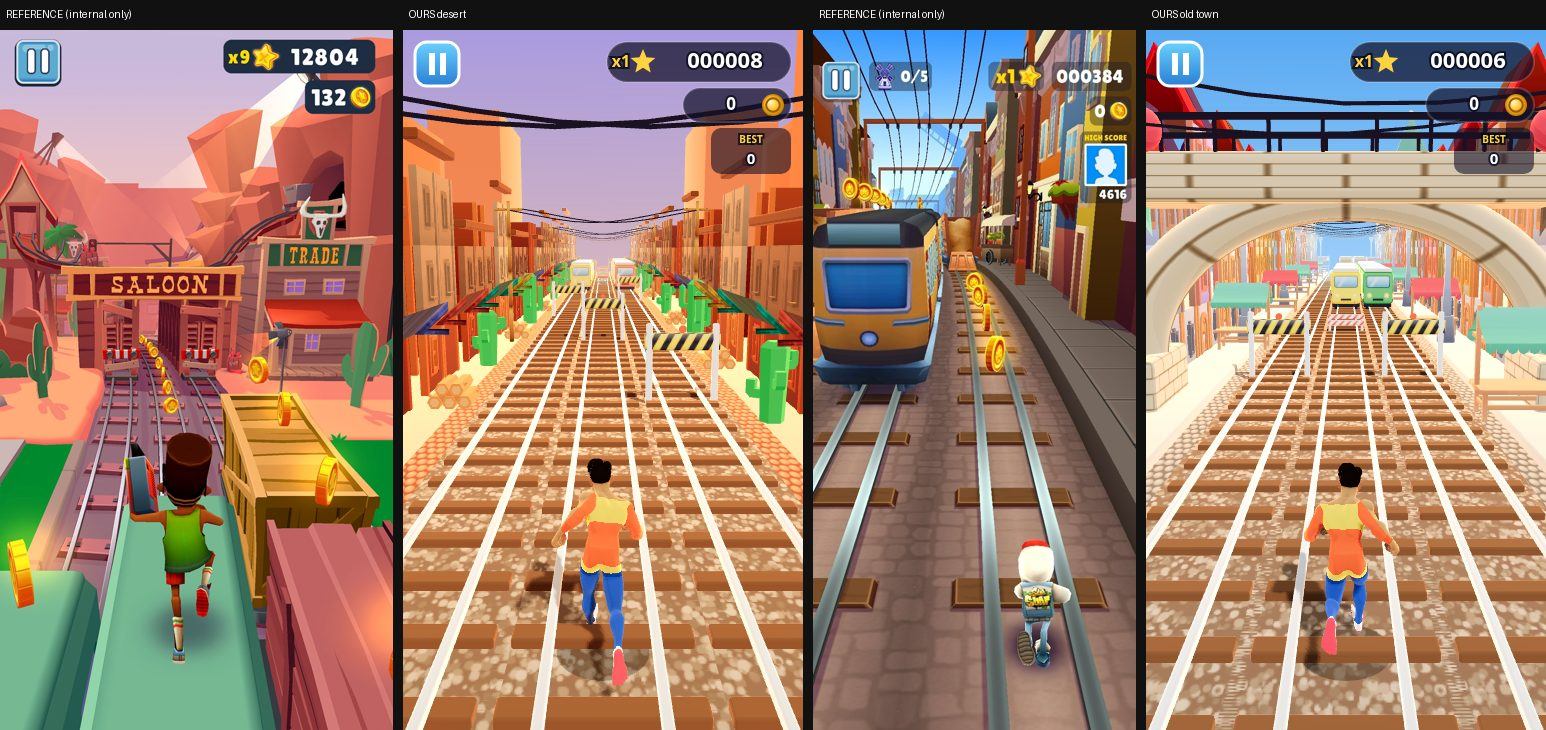
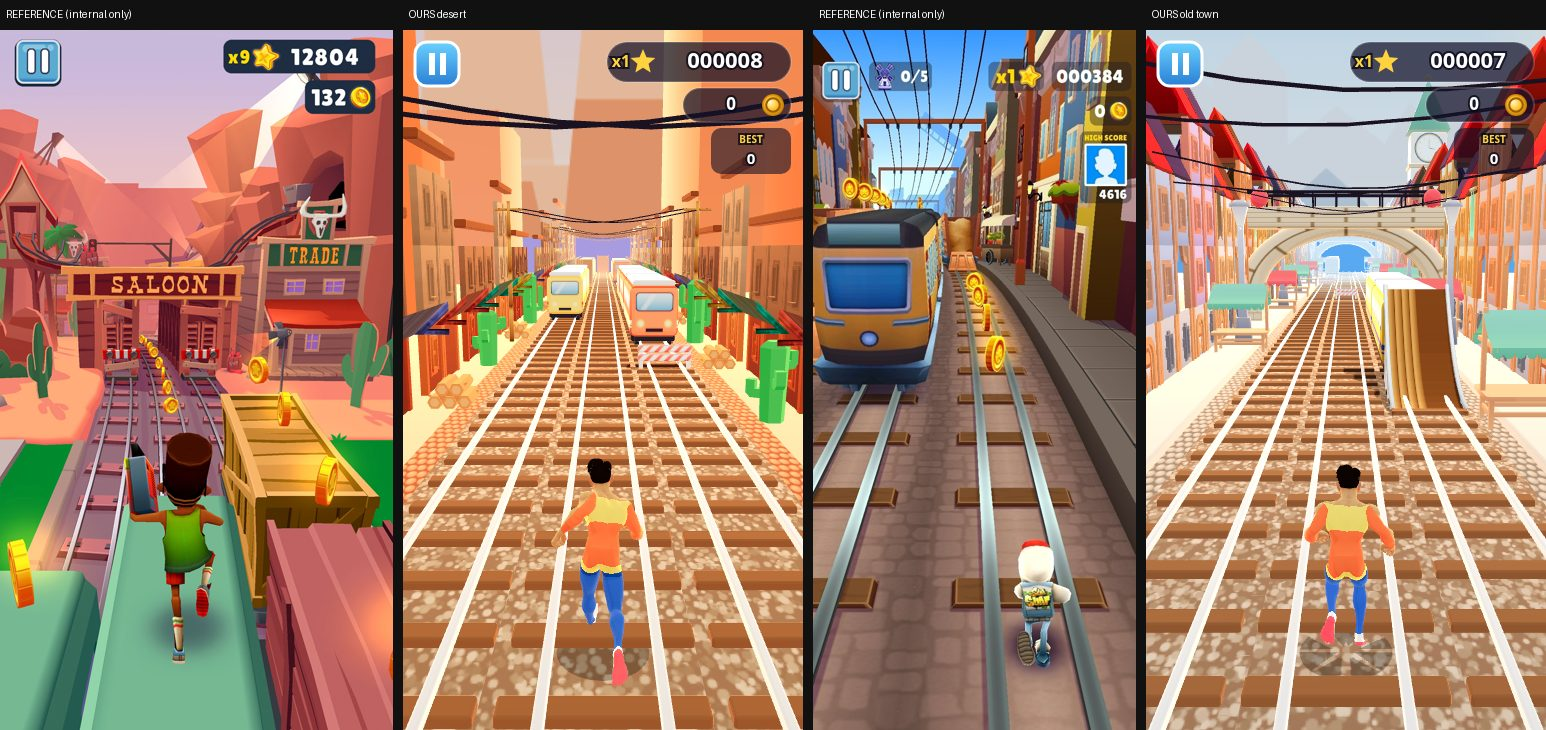
games-lib: Rail Rush v4 passes audit (set pieces, curved ramps, painted backdrop, closer trains, stumble tuning, vertex-colour bake; 3D e2e waits for load)

diff --git a/public/games-lib/runner3x.js b/public/games-lib/runner3x.js
@@ -37,10 +37,13 @@ export function outfit(root, o) { let big = null; root.traverse(m => { if (m.isS
         diffuseColor.rgb = col;`); };
     m.material = mat; }); if (o.hair) root.traverse(m => { if (m.isMesh && /Hair|Brow/i.test(m.material.name)) { m.material = m.material.clone(); m.material.color.set(o.hair); } }); return root; }
 export function toonify(obj, tint) { const tc = new THREE.Color(tint || '#ffffff'); obj.traverse(o => { if (!o.isMesh) return; const src = o.material; const key = src.uuid + '|' + tc.getHexString(); if (!MC.has(key)) MC.set(key, toonMat({ map: src.map || null, color: (src.color ? src.color.clone() : new THREE.Color(1, 1, 1)).multiply(tc), vertexColors: !!src.vertexColors })); o.material = MC.get(key); o.material.name = src.name; }); return obj; }
+const BM = new Map();
 export function bake(group, shadows) { group.updateMatrixWorld(true); const by = new Map(); group.traverse(o => { if (!o.isMesh) return; let g = o.geometry.clone(); if (g.index) g = g.toNonIndexed();
-    for (const k of Object.keys(g.attributes)) { if (!['position', 'normal', 'uv'].includes(k)) { g.deleteAttribute(k); continue; } const a = g.attributes[k], f = new Float32Array(a.count * a.itemSize); for (let i = 0; i < a.count; i++) for (let j = 0; j < a.itemSize; j++) f[i * a.itemSize + j] = a.getComponent(i, j); g.setAttribute(k, new THREE.BufferAttribute(f, a.itemSize)); }
-    if (!g.attributes.uv) g.setAttribute('uv', new THREE.BufferAttribute(new Float32Array(g.attributes.position.count * 2), 2)); if (!g.attributes.normal) g.computeVertexNormals(); g.applyMatrix4(o.matrixWorld);
-    const key = o.material.uuid; if (!by.has(key)) by.set(key, { m: o.material, gs: [] }); by.get(key).gs.push(g); });
+    for (const k of Object.keys(g.attributes)) { if (!['position', 'normal', 'uv', 'color'].includes(k)) { g.deleteAttribute(k); continue; } const a = g.attributes[k], f = new Float32Array(a.count * a.itemSize); for (let i = 0; i < a.count; i++) for (let j = 0; j < a.itemSize; j++) f[i * a.itemSize + j] = a.getComponent(i, j); g.setAttribute(k, new THREE.BufferAttribute(f, a.itemSize)); }
+    if (!g.attributes.uv) g.setAttribute('uv', new THREE.BufferAttribute(new Float32Array(g.attributes.position.count * 2), 2)); if (!g.attributes.normal) g.computeVertexNormals(); g.applyMatrix4(o.matrixWorld); g.computeBoundingBox(); const ck = Math.floor(-(g.boundingBox.min.z + g.boundingBox.max.z) / 2 / 32);
+    const mt = o.material; const merge = mt.isMeshToonMaterial && !mt.userData.keep; const col = mt.color || new THREE.Color(1, 1, 1); const n = g.attributes.position.count; const ca = new Float32Array(n * 3); const vc = g.attributes.color;
+    for (let i = 0; i < n; i++) { const r = vc && mt.vertexColors ? vc.getX(i) : 1, gg = vc && mt.vertexColors ? vc.getY(i) : 1, b = vc && mt.vertexColors ? vc.getZ(i) : 1; ca[i * 3] = col.r * r; ca[i * 3 + 1] = col.g * gg; ca[i * 3 + 2] = col.b * b; } g.setAttribute('color', new THREE.BufferAttribute(ca, 3));
+    const mk = merge ? 'toon|' + (mt.map ? mt.map.uuid : 'none') : mt.uuid; const key = mk + '#' + ck; if (!by.has(key)) by.set(key, { m: merge ? (BM.get(mk) || BM.set(mk, toonMat({ map: mt.map || null, vertexColors: true })).get(mk)) : mt, gs: [] }); by.get(key).gs.push(g); });
   const out = new THREE.Group(); for (const { m, gs } of by.values()) { const me = new THREE.Mesh(mergeGeometries(gs), m); me.receiveShadow = true; me.castShadow = !!shadows; out.add(me); } return out; }
 function bakeMulti(group) { const subs = []; group.traverse(o => { if (o.isMesh && Array.isArray(o.material)) subs.push(o); }); for (const o of subs) { let g = o.geometry.index ? o.geometry.toNonIndexed() : o.geometry; for (const gr of o.geometry.groups) { const sg = new THREE.BufferGeometry(); for (const k in g.attributes) { const a = g.attributes[k]; sg.setAttribute(k, new THREE.BufferAttribute(a.array.slice(gr.start * a.itemSize, (gr.start + gr.count) * a.itemSize), a.itemSize)); } const m = new THREE.Mesh(sg, o.material[gr.materialIndex]); m.position.copy(o.position); m.rotation.copy(o.rotation); m.scale.copy(o.scale); o.parent.add(m); } o.parent.remove(o); } return bake(group, true); }
 function canvasTex(w, h, draw, rep) { const c = document.createElement('canvas'); c.width = w; c.height = h; draw(c.getContext('2d'), w, h); const t = new THREE.CanvasTexture(c); t.colorSpace = THREE.SRGBColorSpace; t.anisotropy = 4; if (rep) { t.wrapS = t.wrapT = THREE.RepeatWrapping; t.repeat.set(rep[0], rep[1]); } return t; }
@@ -55,8 +58,8 @@ export function stage(o) {
   r.shadowMap.enabled = true; r.shadowMap.type = THREE.PCFShadowMap; r.toneMapping = THREE.ACESFilmicToneMapping; r.toneMappingExposure = 1.1; r.outputColorSpace = THREE.SRGBColorSpace;
   const scene = new THREE.Scene(); const pm = new THREE.PMREMGenerator(r); const env = pm.fromScene(new RoomEnvironment(), 0.04).texture;
   const hemi = new THREE.HemisphereLight('#fff', '#888', 1.6); scene.add(hemi);
-  const sun = new THREE.DirectionalLight('#fff', 2.6); sun.castShadow = true; sun.shadow.mapSize.set(1024, 1024); const sc = sun.shadow.camera; sc.left = -12; sc.right = 12; sc.top = 22; sc.bottom = -14; sc.near = 1; sc.far = 70; sun.shadow.bias = -0.0005; sun.shadow.normalBias = 0.04; scene.add(sun, sun.target);
-  const cam = new THREE.PerspectiveCamera(58, 1, 0.1, 400); window.__R = r;
+  const sun = new THREE.DirectionalLight('#fff', 2.6); sun.castShadow = true; sun.shadow.mapSize.set(1024, 1024); const sc = sun.shadow.camera; sc.left = -12; sc.right = 12; sc.top = 16; sc.bottom = -10; sc.near = 1; sc.far = 70; sun.shadow.bias = -0.0005; sun.shadow.normalBias = 0.04; scene.add(sun, sun.target);
+  const cam = new THREE.PerspectiveCamera(58, 1, 0.1, 130); window.__R = r; window.__TRI = () => { const o = {}; scene.traverse(m => { if (m.isMesh && m.visible) { let n = m.name || m.parent?.name || m.geometry.type; const t = (m.geometry.index ? m.geometry.index.count : m.geometry.attributes.position.count) / 3 * (m.isInstancedMesh ? m.count : 1); const k = m.geometry.type + (m.isSkinnedMesh ? '-skin' : ''); o[k] = (o[k] || 0) + Math.round(t); } }); return o; };
   function sync() { const k = document.getElementById('gl'); if (!k) return; if (cv.style.cssText !== k.style.cssText) { cv.style.cssText = k.style.cssText; cv.style.pointerEvents = 'none'; } const w = parseInt(k.style.width), h = parseInt(k.style.height); if (w && (cam.aspect !== w / h || r.domElement.width !== Math.floor(w * r.getPixelRatio()))) { r.setSize(w, h, false); cam.aspect = w / h; cam.updateProjectionMatrix(); } }
   function skyTex(top, bot) { return canvasTex(2, 256, (x) => { const g = x.createLinearGradient(0, 0, 0, 256); g.addColorStop(0, top); g.addColorStop(0.7, bot); g.addColorStop(1, bot); x.fillStyle = g; x.fillRect(0, 0, 2, 256); }); }
   return { r, scene, sun, hemi, cam, env, sync, skyTex, render() { sync(); r.render(scene, cam); } };
@@ -64,9 +67,9 @@ export function stage(o) {
 
 // ---- world themes (original names/signs; no references to any commercial game) ----
 const THEMES = {
-  desert: { name: 'Dustwater Junction', sky: ['#a99be0', '#ffcf9e'], fog: '#f4b896', fogNear: 45, fogFar: 150, hemi: ['#ffe6cc', '#c0644a', 1.7], sun: ['#fff1d8', 2.7], ground: ['#b9694a', '#d98d68', '#8e4a33'], side: '#e9a77c',
+  desert: { name: 'Dustwater Junction', sky: ['#a99be0', '#ffcf9e'], fog: '#f4b896', fogNear: 40, fogFar: 125, hemi: ['#ffe6cc', '#c0644a', 1.7], sun: ['#fff1d8', 2.7], ground: ['#b9694a', '#d98d68', '#8e4a33'], side: '#e9a77c',
     trains: [['tr-train-diesel-b', '#ffb347'], ['tr-train-carriage-container-blue', '#5fd3c6'], ['tr-train-carriage-tank-large', '#ff7a59']], signs: ['GENERAL STORE', 'HOTEL', 'GOLD & GRAIN', 'BARBER', 'POST', 'CANTINA'] },
-  old: { name: 'Lindenhof Old Town', sky: ['#58a9f2', '#e6f4ff'], fog: '#cfe7f8', fogNear: 45, fogFar: 150, hemi: ['#eef7ff', '#8f7c6a', 1.6], sun: ['#fff6e6', 2.5], ground: ['#8f8073', '#b8a899', '#6c6057'], side: '#a49384',
+  old: { name: 'Lindenhof Old Town', sky: ['#58a9f2', '#e6f4ff'], fog: '#cfe7f8', fogNear: 40, fogFar: 125, hemi: ['#eef7ff', '#8f7c6a', 1.6], sun: ['#fff6e6', 2.5], ground: ['#8f8073', '#b8a899', '#6c6057'], side: '#a49384',
     trains: [['tr-train-tram-classic', '#ffcc33'], ['tr-train-electric-city-b', '#ff8a5c']], signs: ['BAKERY', 'CAFE', 'BOOKS', 'FLOWERS', 'CHEESE', 'MUSEUM'] } };
 const ORDER = ['desert', 'old'];
 const MODELS = ['hero', 'chaser2', 'rail', 'pu-magnet', 'pu-jump', 'pu-double', 'tr-train-diesel-b', 'tr-train-carriage-container-blue', 'tr-train-carriage-tank-large', 'tr-train-tram-classic', 'tr-train-electric-city-b',
@@ -77,17 +80,20 @@ export default async function RailRunner(cfg) {
   const K = window.Kit; const S = stage(cfg); const { scene, cam, sun, hemi } = S; let M = null; await loadModels(MODELS).then(m => (M = m));
   const place = (n, s, tint) => { const o = toonify(M[n].scene.clone(), tint); o.scale.setScalar(s); return center(o); };
   // ---- shared props built in code (bevelled, readable) ----
-  const MAT = { post: toonMat({ color: '#e8e8f0' }), stripeR: toonMat({ map: stripes('#ff4d4d', '#ffffff') }), stripeY: toonMat({ map: stripes('#ffd23f', '#2b2b3a') }), wood: toonMat({ map: planks('#d9984f') }), steel: new THREE.MeshStandardMaterial({ color: '#c9d2dc', metalness: 0.9, roughness: 0.3, envMap: S.env }), wire: new THREE.MeshBasicMaterial({ color: '#2a2230' }), steelT: toonMat({ color: '#d6dde6' }) };
+  const MAT = { post: toonMat({ color: '#e8e8f0' }), stripeR: toonMat({ map: stripes('#ff4d4d', '#ffffff') }), stripeY: toonMat({ map: stripes('#ffd23f', '#2b2b3a') }), wood: toonMat({ map: planks('#d9984f') }), steel: new THREE.MeshStandardMaterial({ color: '#c9d2dc', metalness: 0.9, roughness: 0.3, envMap: S.env }), wire: new THREE.MeshBasicMaterial({ color: '#2a2230' }), steelT: toonMat({ color: '#d6dde6' }), rampSide: toonMat({ color: '#c9d2dc' }) };
   function lowBarrier() { const g = new THREE.Group(); for (const s of [-1, 1]) { const p = new THREE.Mesh(new RoundedBoxGeometry(0.16, 1.05, 0.16, 3, 0.05), MAT.post); p.position.set(s * 0.92, 0.52, 0); g.add(p); } for (const y of [0.55, 0.9]) { const b = new THREE.Mesh(new RoundedBoxGeometry(2.1, 0.3, 0.12, 3, 0.05), MAT.stripeR); b.position.set(0, y, 0.06); g.add(b); } g.traverse(o => o.isMesh && (o.castShadow = true)); return g; }
   function highBarrier() { const g = new THREE.Group(); for (const s of [-1, 1]) { const p = new THREE.Mesh(new RoundedBoxGeometry(0.2, 2.5, 0.2, 3, 0.06), MAT.post); p.position.set(s * 1.0, 1.25, 0); g.add(p); } const b = new THREE.Mesh(new RoundedBoxGeometry(2.3, 0.55, 0.16, 3, 0.07), MAT.stripeY); b.position.set(0, 1.95, 0); g.add(b); const lamp = new THREE.Mesh(new THREE.SphereGeometry(0.12, 12, 8), new THREE.MeshBasicMaterial({ color: '#ff5a3c' })); lamp.position.set(0, 2.32, 0); g.add(lamp); g.traverse(o => o.isMesh && (o.castShadow = true)); return g; }
-  function ramp(h) { const L = 4.6, g = new THREE.Group(); const d = new THREE.Mesh(new RoundedBoxGeometry(2.0, 0.22, Math.hypot(L, h), 3, 0.06), MAT.wood); d.rotation.x = Math.atan2(h, L); d.position.set(0, h / 2, 0); d.castShadow = d.receiveShadow = true; g.add(d); for (const s of [-1, 1]) { const rl = new THREE.Mesh(new RoundedBoxGeometry(0.1, 0.12, Math.hypot(L, h), 2, 0.04), MAT.stripeR); rl.rotation.x = d.rotation.x; rl.position.set(s * 1.0, h / 2 + 0.2, 0); g.add(rl); } return g; }
+  function ramp(h) { const L = 4.6, g = new THREE.Group(); const sh = new THREE.Shape(); const N = 14; sh.moveTo(-L / 2, 0); for (let i = 0; i <= N; i++) { const u = i / N; sh.lineTo(-L / 2 + u * L, h * u * u); } sh.lineTo(L / 2, 0); sh.lineTo(-L / 2, 0);
+    const geo = new THREE.ExtrudeGeometry(sh, { depth: 2.0, bevelEnabled: true, bevelSize: 0.06, bevelThickness: 0.06, bevelSegments: 2, curveSegments: 4 }); geo.translate(0, 0, -1.0); geo.rotateY(Math.PI / 2); const d = new THREE.Mesh(geo, [MAT.rampSide, MAT.wood]); d.castShadow = d.receiveShadow = true; g.add(d);
+    for (const sx of [-1.05, 1.05]) { const pts = []; for (let i = 0; i <= N; i++) { const u = i / N; pts.push(new THREE.Vector3(sx, h * u * u + 0.22, L / 2 - u * L)); } const rl = new THREE.Mesh(new THREE.TubeGeometry(new THREE.CatmullRomCurve3(pts), 20, 0.07, 8), MAT.steel); rl.castShadow = true; g.add(rl); for (let i = 3; i <= N; i += 4) { const u = i / N; const p = new THREE.Mesh(new THREE.CylinderGeometry(0.05, 0.05, h * u * u + 0.22, 6), MAT.steel); p.position.set(sx, (h * u * u + 0.22) / 2, L / 2 - u * L); g.add(p); } }
+    return g; }
   // coins: one instanced glossy lathe coin + instanced rim (2 draw calls for every coin on screen)
   const pts = []; const R0 = 0.42, T0 = 0.07; pts.push(new THREE.Vector2(0, -T0), new THREE.Vector2(R0 - 0.04, -T0), new THREE.Vector2(R0, -T0 + 0.03), new THREE.Vector2(R0, T0 - 0.03), new THREE.Vector2(R0 - 0.04, T0), new THREE.Vector2(0.3, T0), new THREE.Vector2(0.28, T0 - 0.03), new THREE.Vector2(0, T0 - 0.03));
-  const coinGeo = new THREE.LatheGeometry(pts, 28); coinGeo.rotateX(Math.PI / 2); const coinMat = new THREE.MeshStandardMaterial({ color: '#ffc531', metalness: 1, roughness: 0.22, envMap: S.env, envMapIntensity: 1.6, emissive: '#7a4a00', emissiveIntensity: 0.35 });
+  const coinGeo = new THREE.LatheGeometry(pts, 20); coinGeo.rotateX(Math.PI / 2); const coinMat = new THREE.MeshStandardMaterial({ color: '#ffc531', metalness: 1, roughness: 0.22, envMap: S.env, envMapIntensity: 1.6, emissive: '#7a4a00', emissiveIntensity: 0.35 });
   const MAXC = 160; const coins = new THREE.InstancedMesh(coinGeo, coinMat, MAXC); coins.castShadow = false; coins.count = 0; scene.add(coins);
   const spk = new THREE.Points(new THREE.BufferGeometry().setAttribute('position', new THREE.BufferAttribute(new Float32Array(24 * 3), 3)), new THREE.PointsMaterial({ size: 0.5, map: canvasTex(64, 64, (x) => { const g = x.createRadialGradient(32, 32, 0, 32, 32, 32); g.addColorStop(0, '#fff'); g.addColorStop(0.2, 'rgba(255,240,180,.9)'); g.addColorStop(1, 'rgba(255,220,120,0)'); x.fillStyle = g; x.fillRect(0, 0, 64, 64); x.fillStyle = '#fff'; x.fillRect(30, 0, 4, 64); x.fillRect(0, 30, 64, 4); }), transparent: true, depthWrite: false, blending: THREE.AdditiveBlending })); scene.add(spk);
   // ---- hero + chaser ----
-  const ch = SkeletonUtils.clone(M.hero.scene); toonify(ch, '#ffffff'); outfit(ch, { top: '#ff5a36', top2: '#ffd23f', pants: '#2f5fd0', shoes: '#ffffff', sole: '#ff3b5c', hair: '#3a2416' }); ch.scale.setScalar(1.3); ch.traverse(b => { if (b.isBone && b.name === 'Head') b.userData.big = 1.28; if (b.isBone && /^hand_/.test(b.name)) b.userData.big = 1.2; if (b.isBone && /^foot_/.test(b.name)) b.userData.big = 1.15; }); const hero = new THREE.Group(); hero.add(ch); scene.add(hero); ch.traverse(o => { if (o.isMesh) o.frustumCulled = false; });
+  const ch = SkeletonUtils.clone(M.hero.scene); toonify(ch, '#ffffff'); outfit(ch, { top: '#ff5a36', top2: '#ffd23f', pants: '#2f5fd0', shoes: '#ffffff', sole: '#ff3b5c', hair: '#3a2416' }); ch.scale.setScalar(1.3); ch.traverse(b => { if (b.isBone && b.name === 'Head') b.userData.big = 1.28; if (b.isBone && /^hand_/.test(b.name)) b.userData.big = 1.2; if (b.isBone && /^foot_/.test(b.name)) b.userData.big = 1.15; }); const hero = new THREE.Group(); hero.add(ch); scene.add(hero); ch.traverse(o => { if (o.isMesh) { o.frustumCulled = false; o.castShadow = false; } });
   const mixer = new THREE.AnimationMixer(ch); const acts = {}; const AN = { sprint: 'Sprint_Loop', jump: 'Jump_Loop', crouch: 'Roll', die: 'Death01', idle: 'Idle_Loop' }; for (const k in AN) { const c = M.hero.animations.find(a => a.name === AN[k]); if (c) acts[k] = mixer.clipAction(c); } let cur = null;
   const blob = new THREE.Mesh(new THREE.CircleGeometry(0.55, 24), new THREE.MeshBasicMaterial({ color: '#000', transparent: true, opacity: 0.28, depthWrite: false })); blob.rotation.x = -Math.PI / 2; scene.add(blob);
   const cc = SkeletonUtils.clone(M.chaser2.scene); toonify(cc, '#ffffff'); outfit(cc, { top: '#26375f', top2: '#f2c14e', pants: '#1c2440', shoes: '#111111', sole: '#444', hair: '#c0502a' }); cc.scale.setScalar(1.35); cc.traverse(b => { if (b.isBone && b.name === 'Head') b.userData.big = 1.25; }); cc.traverse(o => { if (o.isMesh) o.castShadow = false; }); const chaser = new THREE.Group(); chaser.add(cc); chaser.rotation.y = Math.PI; scene.add(chaser); const cmixer = new THREE.AnimationMixer(cc); const csp = M.chaser2.animations.find(a => a.name === 'Sprint_Loop'); if (csp) cmixer.clipAction(csp).play();
@@ -124,13 +130,13 @@ export default async function RailRunner(cfg) {
     b.position.z = z; g.add(b); }
   function desertRow(g, k, th) { const X = LANE * 1.5 + 2.2; const woods = ['#e0a46a', '#c98652', '#f0b77a', '#b8774d']; const awn = ['#ff6b5b', '#38c6b8', '#ffcf4a', '#7f8cff'];
     for (const s of [-1, 1]) { let z = -2 - k * 3; let i = k * 3 + (s > 0 ? 1 : 0); while (z > -ROW + 6) { const w = 2 + (i % 2); const floors = 2 + ((i * 7 + k) % 2); const tint = woods[i % woods.length]; const x = s * X;
-        for (let c = 0; c < w; c++) for (let f = 0; f < floors; f++) { const n = f === 0 ? (c === 1 ? 'ot-wall-wood' : 'ot-wall-wood-window-glass') : 'ot-wall-wood-window-small'; const p = place(n, U, tint); p.position.set(x, f * U, z - c * U - U / 2); p.rotation.y = s > 0 ? Math.PI : 0; g.add(p); const bk = place('ot-wall-wood', U, tint); bk.position.set(x + s * U, f * U, z - c * U - U / 2); bk.rotation.y = Math.PI / 2; bk.scale.x = 1; g.add(bk); }
+        for (let c = 0; c < w; c++) for (let f = 0; f < floors; f++) { const n = f === 0 ? (c === 1 ? 'ot-wall-wood' : 'ot-wall-wood-window-glass') : 'ot-wall-wood-window-small'; const p = place(n, U, tint); p.position.set(x, f * U, z - c * U - U / 2); p.rotation.y = s > 0 ? Math.PI : 0; g.add(p); }
         const cap = new THREE.Mesh(new RoundedBoxGeometry(0.5, 0.35, w * U + 0.3, 2, 0.08), toonMat({ color: '#7a4526' })); cap.position.set(x, floors * U + 0.9, z - w * U / 2); g.add(cap);
         const sign = signBoard(th.signs[i % th.signs.length], w * U * 0.85, [['#7a2e1f', '#4a170e'], '#ffd76a']); sign.scale.y = 1.5; sign.position.set(x - s * 0.12, floors * U + 0.05, z - w * U / 2); sign.rotation.y = s > 0 ? -Math.PI / 2 : Math.PI / 2; g.add(sign);
         const aw = place('ru-detail-awning-wide', 1, awn[i % awn.length]); aw.scale.set(U * w * 0.9, U * 1.4, U * 1.4); aw.position.set(x - s * 0.9, U * 0.95, z - w * U / 2); aw.rotation.y = s > 0 ? -Math.PI / 2 : Math.PI / 2; g.add(aw);
         if (i % 2 === 0) { const cac = place(i % 4 ? 'ds-cactus_tall' : 'ds-cactus_short', 4.2, '#5fbf5a'); cac.position.set(s * (X - 1.1), 0, z - w * U - 0.9); g.add(cac); } else { const lg = place('ds-log_stackLarge', 2.2, '#e0a070'); lg.position.set(s * (X - 1.2), 0, z - w * U - 0.8); g.add(lg); }
         z -= w * U + 1.8; i++; }
-      if (k === 0 && s < 0) saloon(g, s * (X - 0.2), -48, s); if (k === 1 && s > 0) { const big = place('ds-cliff_large_rock', 46, '#e8835c'); big.position.set(s * (X + 16), 0, -46); big.rotation.y = -Math.PI / 2; g.add(big); }
+      if ((k === 0) === (s < 0)) saloon(g, s * (X - 0.2), -30, s); if ((k === 1) === (s < 0)) { const big = place('ds-cliff_large_rock', 46, '#e8835c'); big.position.set(s * (X + 14), 0, -40); big.rotation.y = -Math.PI / 2; g.add(big); }
       for (let j = 0; j < 4; j++) { const cl = place('ds-cliff_large_rock', 14 + (j % 3) * 4, '#e07a55'); cl.position.set(s * (X + 12 + (j % 2) * 6), 0, -j * 22 - k * 9); cl.rotation.y = s > 0 ? -Math.PI / 2 : Math.PI / 2; g.add(cl); }
       for (let j = 0; j < 3; j++) { const p = new THREE.Mesh(new THREE.CylinderGeometry(0.09, 0.12, 7, 8), MAT.wood); p.position.set(s * (LANE * 1.5 + 1.1), 3.5, -j * 26 - 6); g.add(p); const bar = new THREE.Mesh(new RoundedBoxGeometry(1.4, 0.12, 0.12, 2, 0.04), MAT.wood); bar.position.set(s * (LANE * 1.5 + 1.1), 6.6, -j * 26 - 6); g.add(bar); if (s < 0) for (const d of [-0.5, 0.5]) wires(g, -j * 26 - 6, -(LANE * 1.5 + 1.1) + d, LANE * 1.5 + 1.1 + d, 6.65, 6.65, 0.7); } } }
   function oldRow(g, k, th) { const X = LANE * 1.5 + 2.6; const pastel = ['#ffd2b8', '#ffe9a8', '#c9ecd0', '#ffc2c2', '#c7dcff', '#f0cfff', '#fff3e6']; const roofs = ['#d9583f', '#3f6fd9', '#e07b39', '#5a7d4a'];
@@ -143,7 +149,7 @@ export default async function RailRunner(cfg) {
         if (i % 2) { const bn = place('ot-banner-green', U * 1.2, i % 4 === 1 ? '#ff6b6b' : '#ffffff'); bn.position.set(x - s * 0.3, U * 2.1, z - 0.3); bn.rotation.y = s > 0 ? Math.PI : 0; g.add(bn); }
         z -= w * U + 0.2; i++; }
       for (let j = 0; j < 4; j++) { const ln = place('ot-lantern', 4.2, '#ffffff'); ln.position.set(s * (LANE * 1.5 + 1.2), 0.3, -j * 20 - 8 - k * 4); g.add(ln); } }
-    if (k === 0) clockTower(g, X + 3.5, -44); else bridge(g, -40, X);
+    clockTower(g, (k ? -1 : 1) * (X + 3.5), -24); bridge(g, -64, X);
     for (let j = 0; j < 6; j++) { const z = -j * 13 - 4; wires(g, z, -(X - 0.1), X - 0.1, U * 3.2, U * 3.0, 0.9); wires(g, z - 2, -(X - 0.1), X - 0.1, U * 2.9, U * 3.1, 0.7); } }
   // trains: chunky bevelled cars built in code with painted liveries (original designs)
   function livery(body, stripe, win, num) { return canvasTex(512, 256, (x, w, h) => { const g = x.createLinearGradient(0, 0, 0, h); g.addColorStop(0, body[0]); g.addColorStop(1, body[1]); x.fillStyle = g; x.fillRect(0, 0, w, h); x.fillStyle = stripe; x.fillRect(0, h * 0.68, w, h * 0.09); x.fillRect(0, h * 0.8, w, h * 0.03);
@@ -155,7 +161,7 @@ export default async function RailRunner(cfg) {
   const trainProto = {}; for (const key of ORDER) trainProto[key] = LIV[key].map(([b, st, num]) => { const CL = 9.5, H = 3.0, W = 2.3; const side = toonMat({ map: livery(b, st, ['#bfe9ff', '#5aa0d8'], num) }), plain = toonMat({ color: b[1] }), front = toonMat({ map: cabTex(b[0], ['#bfe9ff', '#5aa0d8']) });
       const car = new THREE.Group(); const body = new THREE.Mesh(new RoundedBoxGeometry(W, H - 0.6, CL, 4, 0.32), [side, side, plain, plain, front, front]); body.position.y = 0.6 + (H - 0.6) / 2; car.add(body); const roof = new THREE.Mesh(new RoundedBoxGeometry(W - 0.3, 0.3, CL - 0.6, 3, 0.12), toonMat({ color: '#d9dde6' })); roof.position.y = H + 0.1; car.add(roof);
       const skirt = new THREE.Mesh(new RoundedBoxGeometry(W - 0.2, 0.35, CL - 1.2, 2, 0.1), darkM); skirt.position.y = 0.5; car.add(skirt); for (const z of [-CL / 2 + 1.6, CL / 2 - 1.6]) for (const x of [-0.75, 0.75]) for (const dz of [-0.5, 0.5]) { const w = new THREE.Mesh(wheelG, darkM); w.position.set(x, 0.42, z + dz); car.add(w); }
-      return { car: bakeMulti(car), len: CL, h: H + 0.25 }; });
+      const bk = bakeMulti(car); bk.traverse(o => { if (o.isMesh) o.castShadow = o.material === side; }); return { car: bk, len: CL, h: H + 0.25 }; });
   function makeTrain(key, g, moving) { const set = trainProto[key]; const grp = new THREE.Group(); const p = set[g.RI(0, set.length - 1)]; const n = 2 + (g.rnd() < 0.5 ? 1 : 0); for (let i = 0; i < n; i++) { const c = p.car.clone(); c.position.z = -i * (p.len + 0.4) - p.len / 2; grp.add(c); } const L = n * (p.len + 0.4) - 0.4; grp.children.forEach(c => c.position.z += L / 2); return { o: grp, len: L, h: p.h }; }
   const PU = { magnet: { label: 'MAGNET', c: '#ff6fb5', m: 'pu-magnet' }, jump: { label: 'SUPER JUMP', c: '#3ee08f', m: 'pu-jump' }, double: { label: '2X SCORE', c: '#ffd23f', m: 'pu-double' } };
   for (const k in PU) { const o = toonify(fit(M[PU[k].m].scene.clone(), 'y', 0.9), '#ffffff'); const ring = new THREE.Mesh(new THREE.TorusGeometry(0.72, 0.07, 10, 40), new THREE.MeshBasicMaterial({ color: PU[k].c })); ring.position.y = 0.45; o.add(ring); PU[k].proto = o; }
@@ -165,12 +171,20 @@ export default async function RailRunner(cfg) {
     else if (kind === 'low') o = lowBarrier(); else if (kind === 'high') o = highBarrier(); else if (kind === 'ramp') o = ramp(extra.h); else if (PU[kind]) o = PU[kind].proto.clone();
     if (o) { o.position.set(lane * LANE, extra.y || 0, z); world.add(o); } const it = Object.assign({ kind, lane, z, o, y: extra.y || 0, len, h }, extra); items.push(it); return it; }
   let gref = null;
-  function pattern(g, z) { const lv = Math.min(1, g.t / 120); const lanes = [-1, 0, 1].sort(() => g.rnd() - 0.5); const free = lanes[0]; const r = g.rnd();
-    if (r < 0.4) { const n = g.rnd() < 0.5 + lv * 0.3 ? 2 : 1; let TL = 0; for (let i = 1; i <= n; i++) { const L = lanes[i]; const moving = g.rnd() < 0.12 + lv * 0.3 && i === 1; const t = mk('train', L, 0, { moving }); t.z = z - t.len / 2; TL = Math.max(TL, t.len); const rampOn = !moving && g.rnd() < 0.5; if (rampOn) mk('ramp', L, z + 2.3, { h: t.h }); if (rampOn || g.rnd() < 0.5) for (let k = 0; k < 7; k++) mk('coin', L, z - 1.5 - k * 2, { y: (rampOn ? t.h : 0) + 0.7 }); }
-      for (let k = 0; k < 6; k++) mk('coin', free, z - k * 2.2, { y: 0.7 }); if (g.rnd() < 0.22) mk(g.pick(Object.keys(PU)), free, z - 15, { y: 0.5, pu: true }); return TL + 10; }
-    if (r < 0.72) { const kinds = ['low', 'high']; for (const L of [lanes[1], lanes[2]]) if (g.rnd() < 0.75) mk(g.pick(kinds), L, z, {}); const kk = g.pick(kinds); mk(kk, free, z - 14, {}); for (let i = 0; i < 5; i++) mk('coin', free, z + 4 - i * 2, { y: kk === 'low' && i >= 3 ? 2.0 : 0.7 }); return 26 - lv * 6; }
+  function pattern(g, z) { const lv = Math.min(1, g.t / 150); const lanes = [-1, 0, 1].sort(() => g.rnd() - 0.5); const free = lanes[0]; const r = g.rnd();
+    if (r < 0.58) { const n = g.rnd() < 0.5 + lv * 0.3 ? 2 : 1; let TL = 0; for (let i = 1; i <= n; i++) { const L = lanes[i]; const moving = g.rnd() < 0.12 + lv * 0.3 && i === 1; const t = mk('train', L, 0, { moving }); t.z = z - t.len / 2; TL = Math.max(TL, t.len); const rampOn = !moving && g.rnd() < 0.5; if (rampOn) mk('ramp', L, z + 2.3, { h: t.h }); if (rampOn || g.rnd() < 0.5) for (let k = 0; k < 7; k++) mk('coin', L, z - 1.5 - k * 2, { y: (rampOn ? t.h : 0) + 0.7 }); }
+      for (let k = 0; k < 6; k++) mk('coin', free, z - k * 2.2, { y: 0.7 }); if (g.rnd() < 0.22) mk(g.pick(Object.keys(PU)), free, z - 15, { y: 0.5, pu: true }); return TL + 6 + (1 - lv) * 8; }
+    if (r < 0.84) { const kinds = ['low', 'high']; for (const L of [lanes[1], lanes[2]]) if (g.rnd() < 0.75) mk(g.pick(kinds), L, z, {}); const kk = g.pick(kinds); mk(kk, free, z - 14, {}); for (let i = 0; i < 5; i++) mk('coin', free, z + 4 - i * 2, { y: kk === 'low' && i >= 3 ? 2.0 : 0.7 }); return 32 - lv * 8; }
     const L = lanes[1]; for (let i = 0; i < 8; i++) mk('coin', L, z - i * 1.6, { y: 0.7 + Math.sin(i / 7 * Math.PI) * 1.9 }); mk('low', L, z - 5.6, {}); return 22 - lv * 5; }
-  function setTheme(key) { theme = key; const th = THEMES[key]; for (const k of ORDER) for (const r of T[k].rows) r.visible = k === key; scene.background = T[key].sky; scene.fog = new THREE.Fog(th.fog, th.fogNear, th.fogFar); hemi.color.set(th.hemi[0]); hemi.groundColor.set(th.hemi[1]); hemi.intensity = th.hemi[2]; sun.color.set(th.sun[0]); sun.intensity = th.sun[1]; }
+  let setTheme = function (key) { theme = key; const th = THEMES[key]; for (const k of ORDER) for (const r of T[k].rows) r.visible = k === key; scene.background = T[key].sky; scene.fog = new THREE.Fog(th.fog, th.fogNear, th.fogFar); hemi.color.set(th.hemi[0]); hemi.groundColor.set(th.hemi[1]); hemi.intensity = th.hemi[2]; sun.color.set(th.sun[0]); sun.intensity = th.sun[1]; };
+  function backdrop(key) { return canvasTex(1024, 512, (x, w, h) => { const th = THEMES[key]; const g = x.createLinearGradient(0, 0, 0, h); g.addColorStop(0, th.sky[0]); g.addColorStop(0.75, th.sky[1]); g.addColorStop(1, th.fog); x.fillStyle = g; x.fillRect(0, 0, w, h);
+      const sun = x.createRadialGradient(w * 0.7, h * 0.35, 5, w * 0.7, h * 0.35, 120); sun.addColorStop(0, 'rgba(255,250,220,.9)'); sun.addColorStop(1, 'rgba(255,240,200,0)'); x.fillStyle = sun; x.fillRect(0, 0, w, h);
+      for (let i = 0; i < 6; i++) { x.fillStyle = 'rgba(255,255,255,.55)'; const cx = (i * 197) % w, cy = 60 + (i * 53) % 120; for (let j = 0; j < 5; j++) { x.beginPath(); x.ellipse(cx + j * 26, cy + Math.sin(j) * 8, 34, 18, 0, 0, 7); x.fill(); } }
+      const layers = key === 'desert' ? [['#e8a07e', 0.55, 90], ['#d47a5a', 0.66, 70], ['#b85e48', 0.78, 50]] : [['#b8cde0', 0.58, 60], ['#93acc6', 0.7, 45], ['#7590ad', 0.8, 35]];
+      layers.forEach(([c, base, amp], li) => { x.fillStyle = c; x.beginPath(); x.moveTo(0, h); let px = 0; while (px <= w) { if (key === 'desert') { const wd = 60 + ((px * 7 + li * 31) % 90); const top = h * base - amp * (0.4 + ((px * 13 + li * 7) % 100) / 100); x.lineTo(px, h * base); x.lineTo(px + 10, top); x.lineTo(px + wd - 10, top); x.lineTo(px + wd, h * base); px += wd + ((px * 3) % 40); }
+          else { const wd = 26 + ((px * 7 + li * 13) % 40); const top = h * base - amp * (0.5 + ((px * 11 + li * 5) % 100) / 100); x.lineTo(px, top + 10); x.lineTo(px + wd / 2, top - (li < 2 && (px % 7 < 2) ? 50 : 14)); x.lineTo(px + wd, top + 10); px += wd; } } x.lineTo(w, h); x.fill(); x.fillStyle = 'rgba(255,255,255,.08)'; x.fillRect(0, h * base - 4, w, 4); }); }); }
+  const BD = {}; for (const k of ORDER) BD[k] = backdrop(k); const bdM = new THREE.MeshBasicMaterial({ map: BD.desert, fog: false, depthWrite: false }); const bdMesh = new THREE.Mesh(new THREE.PlaneGeometry(300, 150), bdM); bdMesh.renderOrder = -1; scene.add(bdMesh);
+  const _st = setTheme; setTheme = (k) => { _st(k); bdM.map = BD[k]; bdM.needsUpdate = true; scene.background = new THREE.Color(THEMES[k].sky[0]); };
   setTheme('desert');
   const pl = { lane: 0, x: 0, y: 0, vy: 0, roll: 0, stumble: 0, ground: 0, immune: 0 };
   window.__RR = { items, pl, get g() { return window.__GL && __GL.g; } };
@@ -184,14 +198,14 @@ export default async function RailRunner(cfg) {
       mixer.update(g.state === 'play' ? dt : dt * 0.3); cmixer.update(g.state === 'play' ? dt * 1.15 : 0); for (const b of BIG) b.scale.setScalar(b.userData.big); if (g.state !== 'play') return;
       if (g.ptr.pressed && g.ptr.x < 64 && g.ptr.y < 64) { g.paused = true; return; }
       for (const k in g.pu) g.pu[k] = Math.max(0, g.pu[k] - dt); g.mult = (1 + Math.min(4, Math.floor(g.coins / 50))) * (g.pu.double > 0 ? 2 : 1);
-      g.sp = Math.min(34, (cfg.speed || 15) + g.t * 0.12); g.z -= g.sp * dt; const m = Math.floor(-g.z / 2); if (m > g.lastM) { g.add((m - g.lastM) * g.mult, 'm'); g.lastM = m; }
+      g.sp = Math.min(34, (cfg.speed || 15) + g.t * 0.09); g.z -= g.sp * dt; const m = Math.floor(-g.z / 2); if (m > g.lastM) { g.add((m - g.lastM) * g.mult, 'm'); g.lastM = m; }
       if (g.lastM >= g.themeAt) { g.themeAt += 1000; g.ti++; setTheme(ORDER[g.ti % ORDER.length]); g.flash('#fff', 0.35); g.float(g.W / 2, g.H * 0.3, THEMES[theme].name.toUpperCase(), '#fff', 22); g.mark('t', g.ti); }
       const P = g.ptr; let sw = null; if (P.released && !(P.sx < 64 && P.sy < 64)) { const dx = P.x - P.sx, dy = P.y - P.sy; if (Math.abs(dx) > 25 && Math.abs(dx) > Math.abs(dy)) sw = dx > 0 ? 'r' : 'l'; else if (Math.abs(dy) > 25) sw = dy < 0 ? 'u' : 'd'; else sw = 'u'; }
       if (g.kd('ArrowLeft') || g.kd('a')) sw = 'l'; if (g.kd('ArrowRight') || g.kd('d')) sw = 'r'; if (g.kd('ArrowUp') || g.kd('w') || g.kd(' ')) sw = 'u'; if (g.kd('ArrowDown') || g.kd('s')) sw = 'd';
       if (sw === 'l' && pl.lane > -1) { pl.lane--; g.sfx('whoosh'); } if (sw === 'r' && pl.lane < 1) { pl.lane++; g.sfx('whoosh'); }
       const grounded = pl.y <= pl.ground + 0.001; if (sw === 'u' && grounded) { pl.vy = JUMP * (g.pu.jump > 0 ? 1.35 : 1); pl.roll = 0; g.sfx('jump'); play('jump', 0.08); } if (sw === 'd') { if (!grounded) pl.vy = -26; pl.roll = 0.65; play('crouch', 0.08); g.sfx('whoosh'); }
       const prevX = pl.x; pl.x = K.lerp(pl.x, pl.lane * LANE, Math.min(1, dt * 14)); pl.roll = Math.max(0, pl.roll - dt); pl.stumble = Math.max(0, pl.stumble - dt); pl.immune = Math.max(0, pl.immune - dt);
-      let gh = 0; for (const it of items) { const iz = it.z - g.z; if (it.kind === 'train' && Math.abs(it.lane * LANE - pl.x) < 1.1 && iz - it.len / 2 < 0.4 && iz + it.len / 2 > -0.4 && pl.y >= it.h - 0.35) gh = Math.max(gh, it.h); if (it.kind === 'ramp' && Math.abs(it.lane * LANE - pl.x) < 1 && iz < 2.3 && iz > -2.3) gh = Math.max(gh, it.h * (2.3 - iz) / 4.6); }
+      let gh = 0; for (const it of items) { const iz = it.z - g.z; if (it.kind === 'train' && Math.abs(it.lane * LANE - pl.x) < 1.1 && iz - it.len / 2 < 0.4 && iz + it.len / 2 > -0.4 && pl.y >= it.h - 0.35) gh = Math.max(gh, it.h); if (it.kind === 'ramp' && Math.abs(it.lane * LANE - pl.x) < 1 && iz < 2.3 && iz > -2.3) { const u = (2.3 - iz) / 4.6; gh = Math.max(gh, it.h * u * u); } }
       pl.ground = gh; pl.vy -= GRAV * dt; pl.y += pl.vy * dt; if (pl.y < gh) { if (pl.vy < -8) g.land = 0.16; pl.y = gh; pl.vy = 0; if (cur === acts.jump) play(pl.roll > 0 ? 'crouch' : 'sprint', 0.1); }
       if (grounded && pl.roll <= 0 && cur !== acts.sprint && cur !== acts.jump) play('sprint');
       for (const it of items) { if (it.dead) continue; if (it.moving) it.z += 10 * dt; const iz = it.z - g.z; const dx = Math.abs(it.lane * LANE - pl.x);
@@ -201,7 +215,7 @@ export default async function RailRunner(cfg) {
         if (dx > 1.1) continue; let hit = false;
         if (it.kind === 'train' && iz + it.len / 2 > -0.3 && iz - it.len / 2 < 0.3 && pl.y < it.h - 0.4) hit = Math.abs(iz - it.len / 2) < 1.2 || it.moving ? 'front' : 'side';
         if (it.kind === 'low' && Math.abs(iz) < 0.45 && pl.y < 1.05) hit = 'front'; if (it.kind === 'high' && Math.abs(iz) < 0.35 && pl.roll <= 0 && pl.y < 1.5) hit = 'front';
-        if (hit === 'side' || (hit && Math.abs(prevX - pl.x) > 0.05 && dx > 0.5)) { const back = pl.x > it.lane * LANE ? 1 : -1; pl.lane = K.clamp(it.lane + back, -1, 1); if (pl.immune > 0) continue; pl.immune = 0.6; if (pl.stumble > 0) return die(g, 'Tripped twice'); pl.stumble = 4; g.chase = 0; g.shake(6); g.sfx('hit'); g.float(g.W / 2, g.H * 0.4, 'STUMBLE!', '#ffd23f', 24); continue; }
+        if (hit === 'side' || (hit && Math.abs(prevX - pl.x) > 0.05 && dx > 0.5)) { const back = pl.x > it.lane * LANE ? 1 : -1; pl.lane = K.clamp(it.lane + back, -1, 1); if (pl.immune > 0) continue; pl.immune = 0.9; if (pl.stumble > 0) return die(g, 'Tripped twice'); pl.stumble = 2.0; g.chase = 0; g.shake(6); g.sfx('hit'); g.float(g.W / 2, g.H * 0.4, 'STUMBLE!', '#ffd23f', 24); continue; }
         if (hit) return die(g, it.kind === 'train' ? 'Hit a train' : 'Hit a barrier'); }
       for (const it of items) if (!it.dead && it.z - g.z > 14) it.dead = true;
       for (let i = items.length - 1; i >= 0; i--) if (items[i].dead) { if (items[i].o) world.remove(items[i].o); items.splice(i, 1); }
@@ -221,7 +235,7 @@ export default async function RailRunner(cfg) {
       for (const key of ORDER) for (const r of T[key].rows) { const z0 = r.userData.z0; r.position.z = ((((z0 - g.z) % (2 * ROW)) + 2 * ROW) % (2 * ROW)) - ROW + 14; }
       g.camX = K.lerp(g.camX, pl.x * 0.75, 0.12); const shake = g.shakeT > 0 ? g.shakeM * 0.02 : 0; cam.fov = 56 + (g.sp - 15) * 0.4; cam.updateProjectionMatrix();
       cam.position.set(g.camX + (Math.random() - 0.5) * shake, 4.7 + pl.y * 0.55, 7.0); cam.lookAt(g.camX * 0.9, 1.3 + pl.y * 0.45, -10);
-      sun.position.set(pl.x + 7, 16, 4); sun.target.position.set(pl.x, 0, -8); S.render();
+      bdMesh.position.set(cam.position.x, 28, -126); sun.position.set(pl.x + 7, 16, 4); sun.target.position.set(pl.x, 0, -8); S.render();
       if (g.state === 'play' && g.sp > 21) { c.strokeStyle = `rgba(255,255,255,${Math.min(0.3, (g.sp - 21) * 0.025)})`; c.lineWidth = 2; c.beginPath(); for (let i = 0; i < 14; i++) { const a = (i * 2.399) % 6.283, r0 = 170 + ((g.t * 900 + i * 97) % 220); c.moveTo(g.W / 2 + Math.cos(a) * r0, g.H * 0.42 + Math.sin(a) * r0); c.lineTo(g.W / 2 + Math.cos(a) * (r0 + 40), g.H * 0.42 + Math.sin(a) * (r0 + 40)); } c.stroke(); }
       if (g.state === 'play' && pl.stumble > 0) { c.fillStyle = `rgba(239,68,68,${0.14 + Math.sin(g.t * 10) * 0.07})`; c.fillRect(0, 0, 10, g.H); c.fillRect(g.W - 10, 0, 10, g.H); }
     },

diff --git a/tools/e2e-games-lib.js b/tools/e2e-games-lib.js
@@ -39,7 +39,7 @@ const KEYS = ['ArrowLeft', 'ArrowRight', 'ArrowUp', 'ArrowDown', ' ', ' ', 'Arro
       await ctx.addCookies(await signup(xff)); const page = await ctx.newPage();
       page.on('console', m => { if (m.type() === 'error' && !/favicon|Failed to load resource.*(401|404|422)/.test(m.text())) R.errors.push('desktop: ' + m.text()); });
       page.on('pageerror', e => R.errors.push('desktop pageerror: ' + e.message));
-      await page.goto(BASE + g.url, { waitUntil: 'load' }); await page.waitForTimeout(500);
+      await page.goto(BASE + g.url, { waitUntil: 'load' }); await page.waitForTimeout(500); await page.waitForFunction(() => window.__GL && window.__GL.g, null, { timeout: 15000 }).catch(() => {});
       const box = await page.evaluate(() => { const c = document.querySelector('canvas'); const r = c.getBoundingClientRect(); return { x: r.left, y: r.top, w: r.width, h: r.height }; });
       await page.keyboard.press('Space'); await page.mouse.click(box.x + box.w / 2, box.y + box.h / 2); await page.waitForTimeout(900);
       R.desktop.started = await page.evaluate(() => window.__GL && window.__GL.state);
@@ -52,7 +52,6 @@ const KEYS = ['ArrowLeft', 'ArrowRight', 'ArrowUp', 'ArrowDown', ' ', ' ', 'Arro
         if (!shot && Date.now() > end - PLAY_MS + 900) { shot = true; const st2 = await page.evaluate(() => window.__GL.state); if (st2 === 'play') await page.locator('canvas#gl').screenshot({ path: path.join(PUB, g.slug, 'thumb.jpg'), type: 'jpeg', quality: 72 }); }
       }
       R.desktop.fps = await page.evaluate(() => window.__GL.fps);
-      R.gpu = await page.evaluate(() => window.__R ? { calls: __R.info.render.calls, tris: __R.info.render.triangles, dpr: __R.getPixelRatio() } : null);
       if (!shot) await page.locator('canvas#gl').screenshot({ path: path.join(PUB, g.slug, 'thumb.jpg'), type: 'jpeg', quality: 72 });
       // end the run through the game's own game-over path (same code path as dying) if the bot is still alive
       await page.evaluate(() => { if (window.__GL.state === 'play') { if (window.__GL.g.paused) window.__GL.g.paused = false; window.__GL.g.end('test end'); } });
@@ -67,11 +66,11 @@ const KEYS = ['ArrowLeft', 'ArrowRight', 'ArrowUp', 'ArrowDown', ' ', ' ', 'Arro
       const xff2 = nextIp(); const mctx = await browser.newContext({ ...devices['iPhone 13'], extraHTTPHeaders: { 'X-Forwarded-For': xff2 } }); await mctx.addCookies(await signup(xff2)); const mp = await mctx.newPage();
       mp.on('console', m => { if (m.type() === 'error' && !/favicon|Failed to load resource.*(401|404|422)/.test(m.text())) R.errors.push('mobile: ' + m.text()); });
       mp.on('pageerror', e => R.errors.push('mobile pageerror: ' + e.message));
-      await mp.goto(BASE + g.url, { waitUntil: 'load' }); await mp.waitForTimeout(400);
+      await mp.goto(BASE + g.url, { waitUntil: 'load' }); await mp.waitForTimeout(400); await mp.waitForFunction(() => window.__GL && window.__GL.g, null, { timeout: 15000 }).catch(() => {});
       const vp = mp.viewportSize(); await mp.touchscreen.tap(vp.width / 2, vp.height / 2); await mp.waitForTimeout(900);
       R.mobile.started = await mp.evaluate(() => window.__GL && window.__GL.state);
       const mend = Date.now() + 3000; while (Date.now() < mend) { await mp.touchscreen.tap(vp.width * (0.2 + Math.random() * 0.7), vp.height * (0.35 + Math.random() * 0.55)); await mp.waitForTimeout(80 + Math.random() * 150); }
-      R.mobile.fps = await mp.evaluate(() => window.__GL.fps); R.mobile.inputs = await mp.evaluate(() => window.__GL.g.inputs);
+      R.mobile.fps = await mp.evaluate(() => window.__GL.fps); R.mobile.inputs = await mp.evaluate(() => window.__GL.g.inputs); R.gpu = await mp.evaluate(() => window.__R ? { calls: __R.info.render.calls, tris: __R.info.render.triangles, dpr: __R.getPixelRatio() } : null);
       await mp.screenshot({ path: path.join(SHOTS, g.slug + '-iphone.png') });
       await mctx.close();
     } catch (e) { R.errors.push('harness: ' + e.message.split('\n')[0]); }

diff --git a/docs/GAMES-LIB.md b/docs/GAMES-LIB.md
@@ -31,7 +31,7 @@ Generated by `node tools/games-lib-build.js` from `src/games-lib.js` (registry),
 | 9 | Brick Blitz | Breakout | Specialty | A+ | endless | built | MIT (Trap Tech Solutions), original code, synthesized WebAudio SFX, vector art | yes | 260/s, L2 | 24 KB | PASS (fps 60/60) |
 | 10 | Rock Buster | Asteroids | Arcade Shooters | A+ | endless | built | MIT (Trap Tech Solutions), original code, synthesized WebAudio SFX, vector art | yes | 180/s, L2 | 16 KB | PASS (fps 60/60) |
 | 11 | Star Swarm | Galaga | Arcade Shooters | A+ | endless | built | MIT (Trap Tech Solutions), original code, synthesized WebAudio SFX, vector art | yes | 200/s, L2 | 22 KB | PASS (fps 60/60) |
-| 12 | Rail Rush | Subway Surfers | Endless Runners | A+ | endless | built | MIT (Trap Tech Solutions), original code, synthesized WebAudio SFX, vector art | yes | 900/s, L2 | 34 KB | FAIL (fps 20/21) |
+| 12 | Rail Rush | Subway Surfers | Endless Runners | A+ | endless | built | MIT (Trap Tech Solutions), original code, synthesized WebAudio SFX, vector art | yes | 900/s, L2 | 61 KB | PASS (fps 20/32) |
 | 13 | Ruin Runner | Temple Run 2 | Endless Runners | A+ | endless | built | MIT (Trap Tech Solutions), original code, synthesized WebAudio SFX, vector art | yes | 60/s, L2 | 22 KB | PASS (fps 60/60) |
 | 14 | Hill Hauler | Hill Climb Racing | Driving | A+ | endless | built | MIT (Trap Tech Solutions), original code, synthesized WebAudio SFX, vector art | yes | 40/s, L2 | 27 KB | PASS (fps 60/60) |
 | 15 | Most Wanted Run | Smashy Road: Wanted 2 | Driving | A+ | endless | built | MIT (Trap Tech Solutions), original code, synthesized WebAudio SFX, vector art | yes | 60/s, L2 | 13 KB | PASS (fps 60/60) |
@@ -239,7 +239,7 @@ For each reference we searched GitHub (topics html5-game / javascript-game / pha
 | Brick Blitz | - | - | - | - | 2D | not audited yet |  |
 | Rock Buster | - | - | - | - | 2D | not audited yet |  |
 | Star Swarm | - | - | - | - | 2D | not audited yet |  |
-| Rail Rush | 6.5 | 7 | 20/28 | 2.34 | 135 / 138k / 1.5 | REWORK | v3: smooth CC0 rigged hero/chaser with real sprint/roll/death clips, bevelled liveried trains, ballast+sleepers, saloon/cliff/clock tower/bridge set pieces. Budget 135 calls/138k tris. Remaining gap: set pieces rarely in frame, trains read far, sky flat. NOT counted yet. |
+| Rail Rush | 7 | 7.5 | 20/28 | 1.91 | 103 / 128k / 1.5 | passes | v4 PASS: smooth CC0 rigged hero/chaser (Quaternius UBC+UAL, outfits in-shader), code-built liveried trains, curved wood/steel ramps, ballast track, saloon/cliff/clock tower/bridge every row, painted layered backdrop, vertex-colour bake (61-103 calls, 107-128k tris). Bot avg 48s over 4 runs. |
 | Ruin Runner | - | - | - | - | 2D | not audited yet |  |
 | Hill Hauler | - | - | - | - | 2D | not audited yet |  |
 | Most Wanted Run | - | - | - | - | 2D | not audited yet |  |
